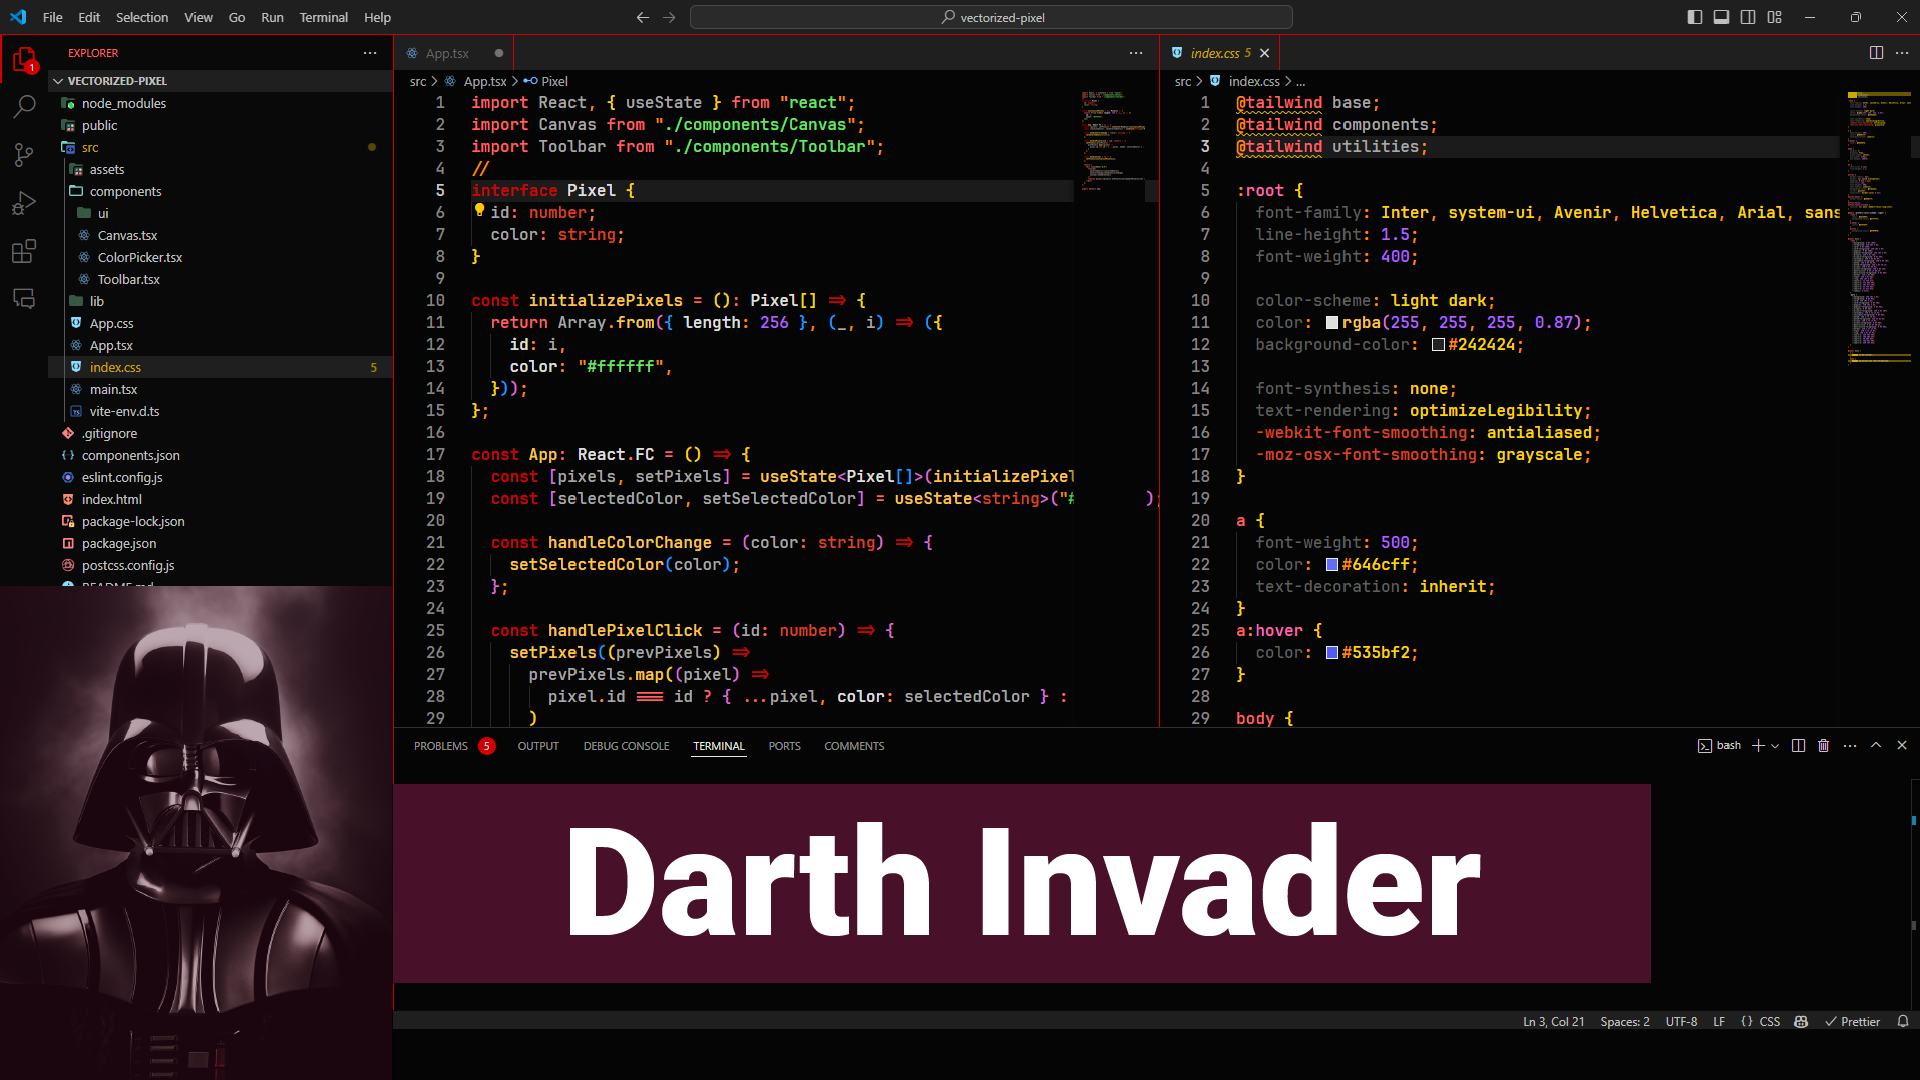
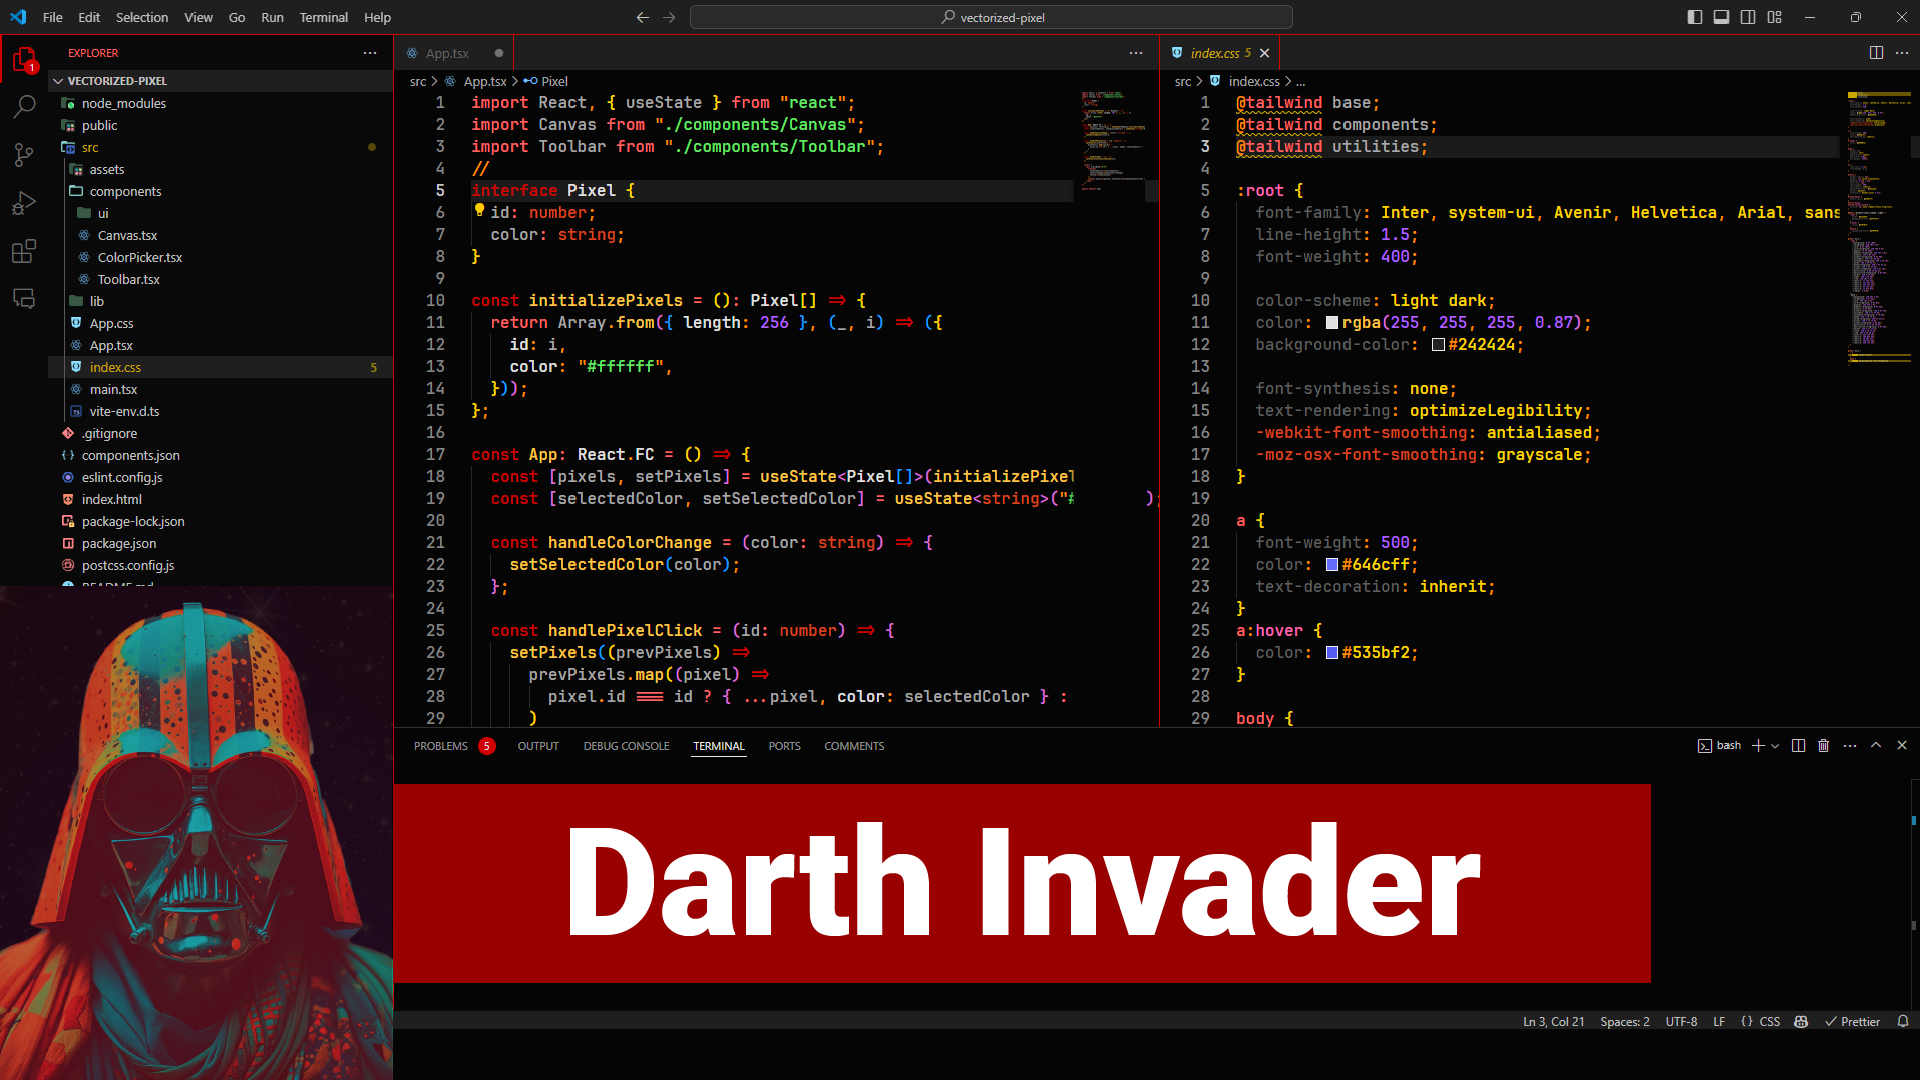
updated theme images and README

Changed region(s): [[0.0, 0.5194, 0.875, 1.0]]

diff --git a/CHANGELOG.md b/CHANGELOG.md
@@ -4,6 +4,12 @@ All notable changes to the "space-wars" extension will be documented in this fil
 
 Check [Keep a Changelog](http://keepachangelog.com/) for recommendations on how to structure this file.
 
-## [Unreleased]
+### Added
+
+v.1.0.0
 
 - Initial release
+
+v.1.0.1
+
+- Updated images for the themes
